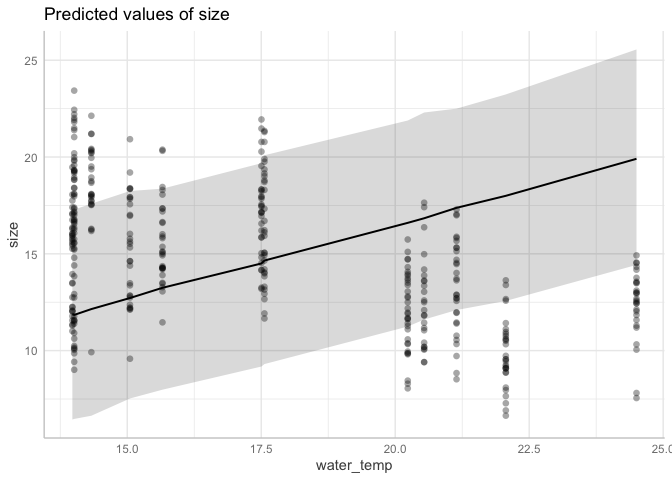
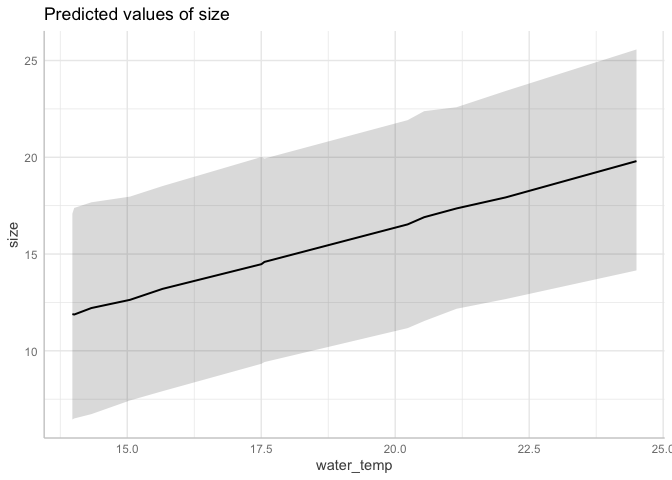
Added some text explanation for plotting predictions on data

diff --git a/README.md b/README.md
@@ -38,7 +38,7 @@ ways:
 By making models, we are trying to approximate the processes that affect
 things in a system. It’s important to know how well our models are
 actually aligning with reality though. If we are not careful, we may
-“overfit” our models. Overfitting is when our model fits the data too
+“overfit” our models. *Overfitting* is when our model fits the data too
 closely, usually because we added too many parameters, which explains
 the data well but makes the model very bad at predicting future data
 (for instance, the final panel of the XKCD comic below).
@@ -74,8 +74,9 @@ pie_crab <- lterdatasampler::pie_crab
 ------------------------------------------------------------------------
 
 In this section, we will run and interpret three multiple regressions to
-try and understand what influences crab body width in mm (`size`). Let’s
-remind ourselves of the columns in the crab data:
+try and understand what influences crab body width in mm (`size`). These
+are data from crabs (\~30 per site) collected from sites from Florida to
+Massachusetts. Let’s remind ourselves of the columns in the crab data:
 
 ``` r
 colnames(pie_crab)
@@ -101,23 +102,23 @@ for each predictor.
 
 ------------------------------------------------------------------------
 
-### Q1.1a How might *mean* **water** temperature affect crab size?
+### Q1.1a How might *mean* annual *water* temperature affect crab size?
 
 ------------------------------------------------------------------------
 
-### Q1.1b How might *mean* **air** temperature affect crab size?
+### Q1.1b How might *mean* annual *air* temperature affect crab size?
 
 ------------------------------------------------------------------------
 
-### Q1.1c How might the *sd* of **water** temperature affect crab size?
+### Q1.1c How might the *sd* (variability) of *water* temperature affect crab size?
 
 ------------------------------------------------------------------------
 
-### Q1.1d How might the *sd* of **air** temperature affect crab size?
+### Q1.1d How might the *sd* (variability) of *air* temperature affect crab size?
 
 ------------------------------------------------------------------------
 
-## 1.2 Run, assess, and interpret three multiple regressions with latitude and **mean** temperatures
+## 1.2 Run, assess, and interpret three multiple regressions with latitude and *mean* temperatures
 
 Let’s run three regressions and compare their results. We will start by
 looking at how body size varies with latitude plus each of the mean
@@ -191,8 +192,8 @@ plot(m.crab.lat.water)
 #### Q1.2a Assess the output
 
 Assess whether the model ran correctly by looking at R hat, the chains,
-and the posterior distributions using the plot() and summary() functions
-as below. Describe your thought process about whether the model ran
+and the posterior distributions using the plot() and summary()
+functions. Describe your thought process about whether the model ran
 correctly in 1-2 sentences.
 
 ------------------------------------------------------------------------
@@ -258,8 +259,8 @@ summary(m.crab.lat.air)
 #### Q1.3a Assess the output
 
 Assess whether the model ran correctly by looking at R hat, the chains,
-and the posterior distributions using the plot() and summary() functions
-as below. Describe your thought process about whether the model ran
+and the posterior distributions using the plot() and summary()
+functions. Describe your thought process about whether the model ran
 correctly in 1-2 sentences.
 
 ------------------------------------------------------------------------
@@ -326,8 +327,8 @@ summary(m.crab.lat.air.water)
 #### Q1.4a Assess the output
 
 Assess whether the model ran correctly by looking at R hat, the chains,
-and the posterior distributions using the plot() and summary() functions
-as below. Describe your thought process about whether the model ran
+and the posterior distributions using the plot() and summary()
+functions. Describe your thought process about whether the model ran
 correctly in 1-2 sentences.
 
 ------------------------------------------------------------------------
@@ -428,11 +429,11 @@ The first thing to look for to assess the leave one out method is the
 Pareto k estimate. For us, it gives the helpful message:
 `All Pareto k estimates are good (k < 0.7)`.
 
-The last row is our PSIS value. Remember, lower = better. As we can see,
-the `size ~ latitude + mean water + mean air` model had the lowers PSIS
-value, despite having the most parameters. This indicates that the extra
-parameter made up for the punishment by adding much more predictive
-power.
+The last row in each table’s output is our PSIS value. Remember, lower =
+better. As we can see, the `size ~ latitude + mean water + mean air`
+model had the lowers PSIS value, despite having the most parameters.
+This indicates that the extra parameter made up for the punishment by
+adding much more predictive power.
 
 ------------------------------------------------------------------------
 
@@ -492,13 +493,17 @@ align. In this case, they do, which is a good sign for our models.
 ## 1.4 Look at uncertainty around model predictions
 
 Here we will look at some of the ways we can look at the uncertainty
-around model predictions form the “model evaluation” lecture.
+around model predictions form the “model evaluation” lecture using the
+most complex model with `size ~ latitude + mean water + mean air`.
+
+The `predict_response(interval = "prediction")` function plots the
+prediction interval separately for each predictor, displaying
+uncertainty around where the data may lay around the model.
 
 ``` r
 preds <- ggeffects::predict_response(m.crab.lat.air.water, 
-                            # terms = c("latitude", "air_temp", "water_temp"),
                             interval = "prediction")
-plot(preds, show_data = TRUE)
+plot(preds)
 ```
 
     $latitude
@@ -515,17 +520,28 @@ plot(preds, show_data = TRUE)
 
 ![](README_files/figure-commonmark/unnamed-chunk-13-3.png)
 
+`pp_check(type = "dens_overlay")` shows the model predictions \[…\]
+
 ``` r
 pp_check(m.crab.lat.air.water, type = "dens_overlay")
 ```
 
 ![](README_files/figure-commonmark/unnamed-chunk-14-1.png)
 
+`pp_check(type = "scatter_avg")` shows the model predictions against the
+data as a scatterplot. Having all of the points along the line would
+indicate very good fit.
+
 ``` r
 pp_check(m.crab.lat.air.water, type = "scatter_avg")
 ```
 
 ![](README_files/figure-commonmark/unnamed-chunk-15-1.png)
+
+Here, it seems that there is a lot of variation at each site: the model
+line goes through approximately the middle of each cloud of points,
+which is good, but there is still a lot of unexplained variation at
+seemingly the site level.
 
 ------------------------------------------------------------------------
 
@@ -710,8 +726,8 @@ summary(m.crab.lat.airsd.watersd)
 ### Q2.2 Assess all three models
 
 Assess whether each model ran correctly by looking at R hat, the chains,
-and the posterior distributions using the plot() and summary() functions
-as below. Describe your thought process about whether the model ran
+and the posterior distributions using the plot() and summary()
+functions. Describe your thought process about whether the model ran
 correctly in 1-2 sentences per model.
 
 ------------------------------------------------------------------------
